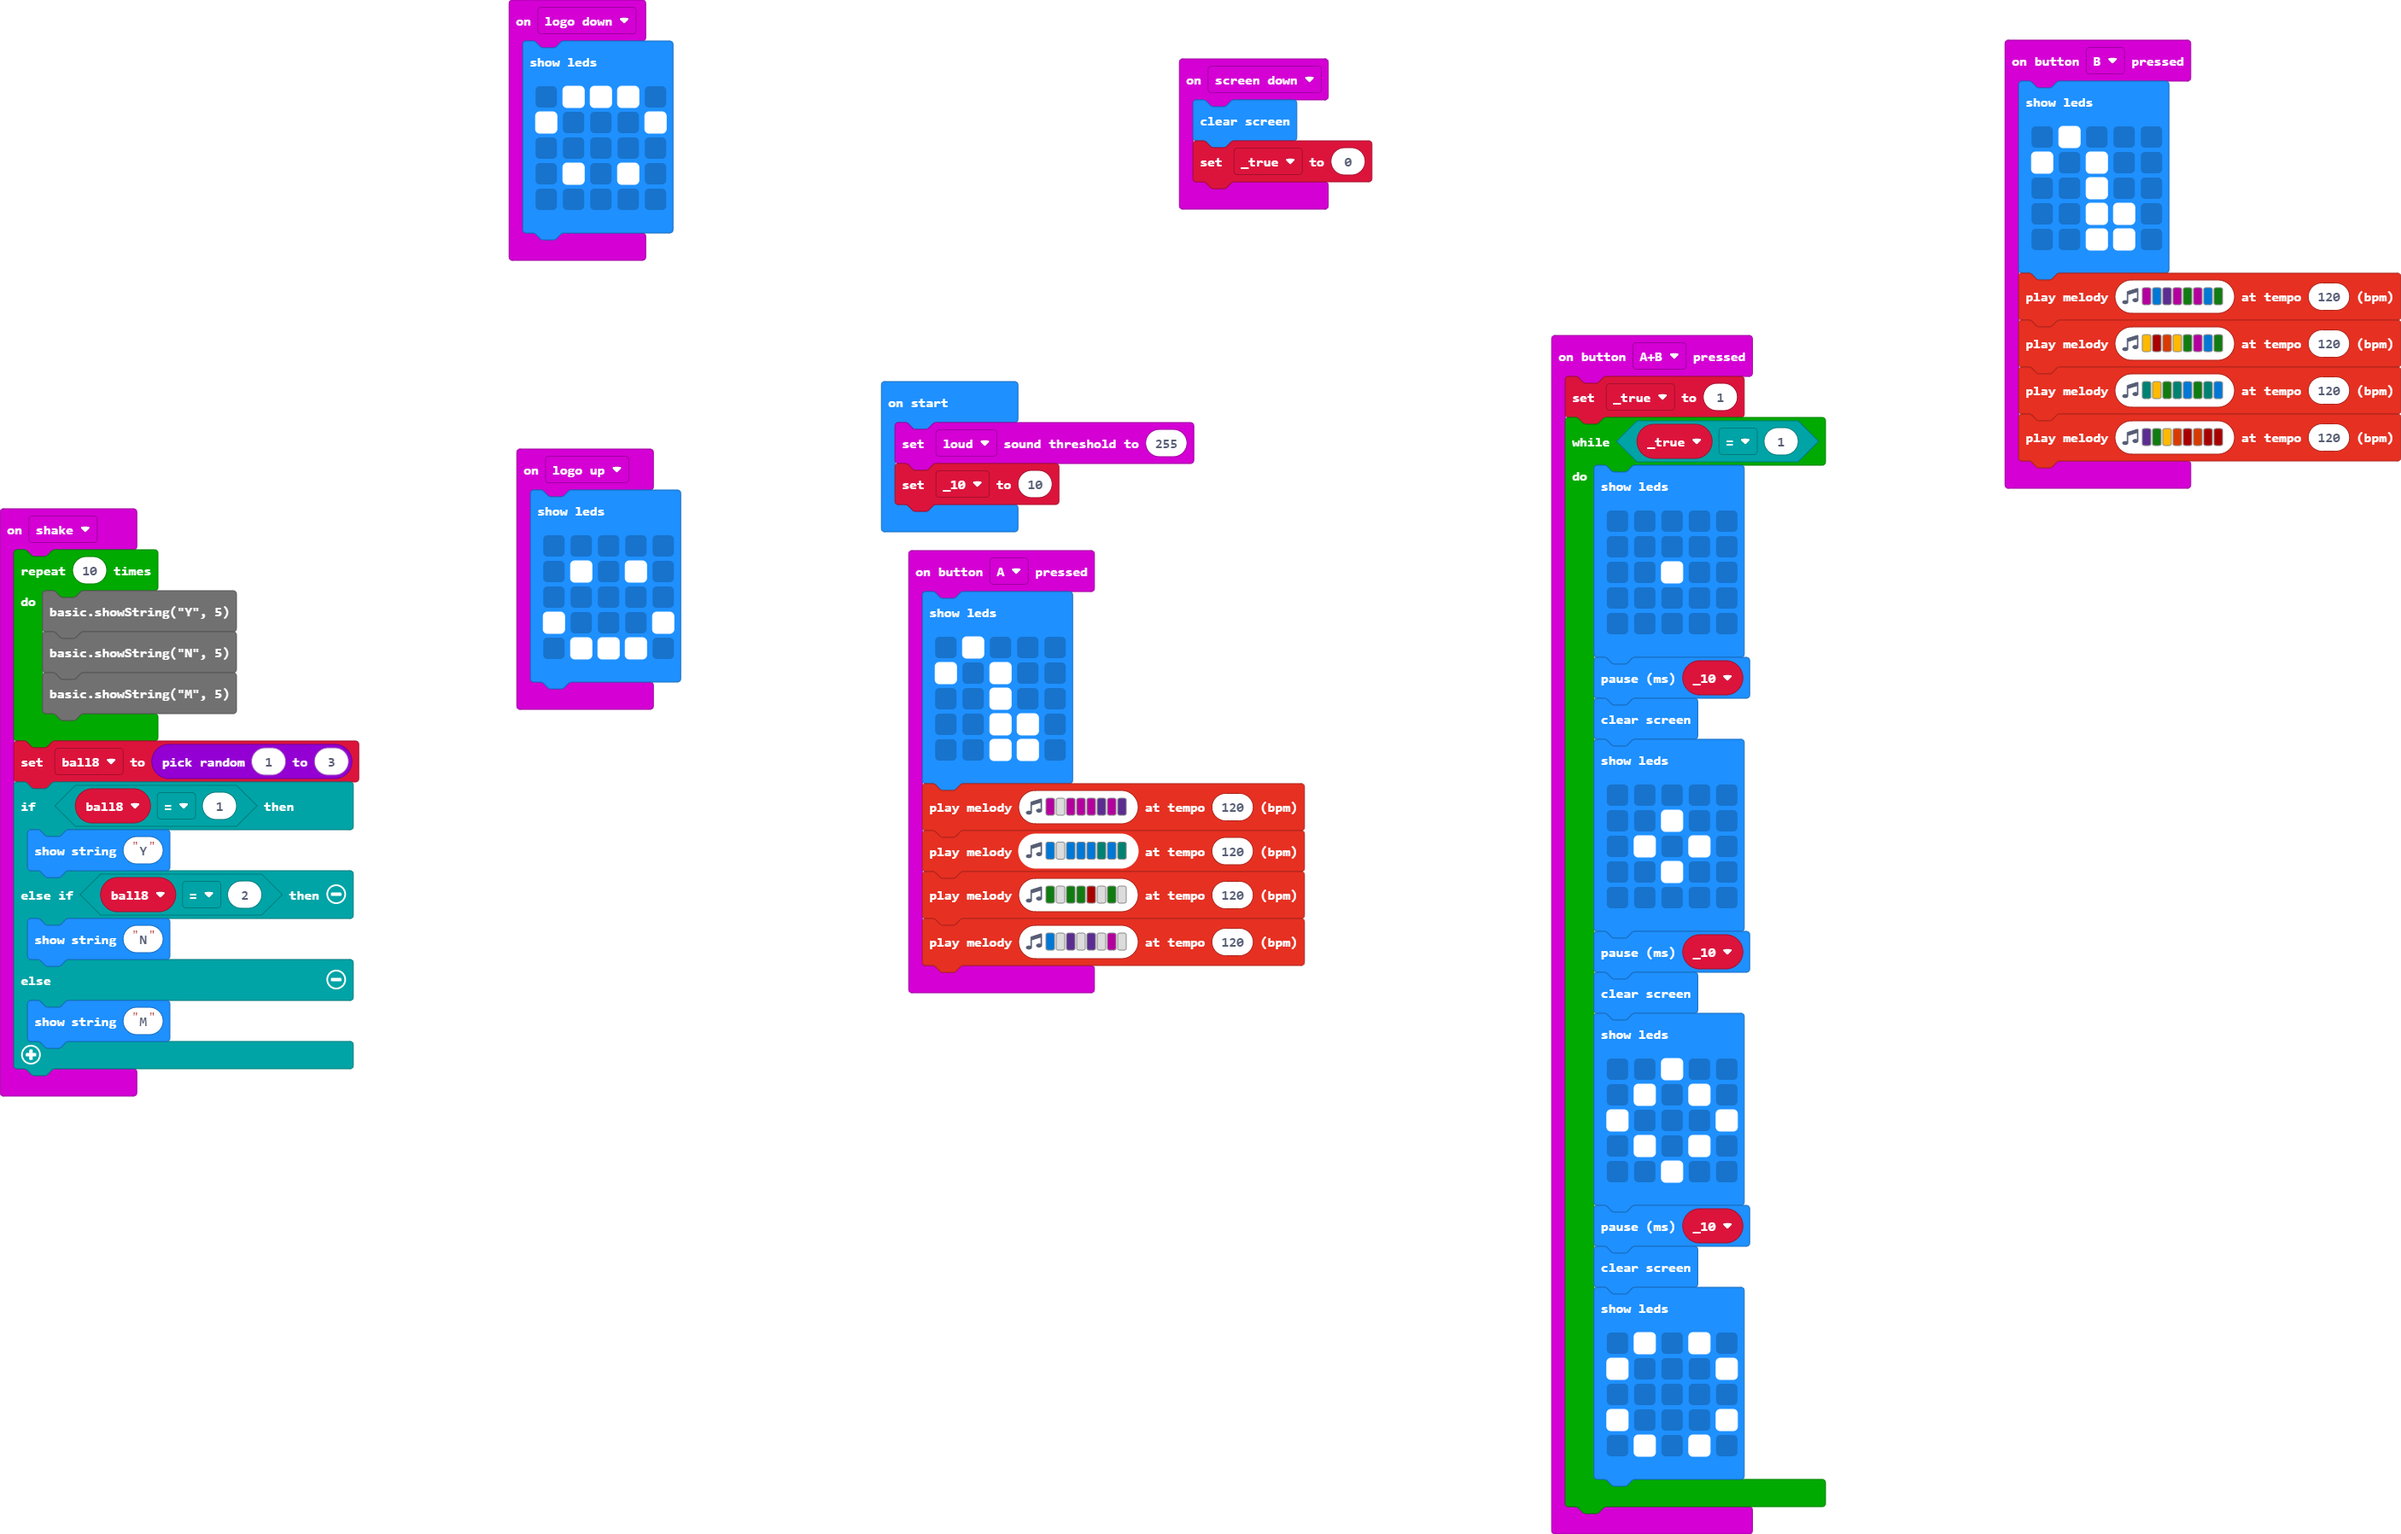
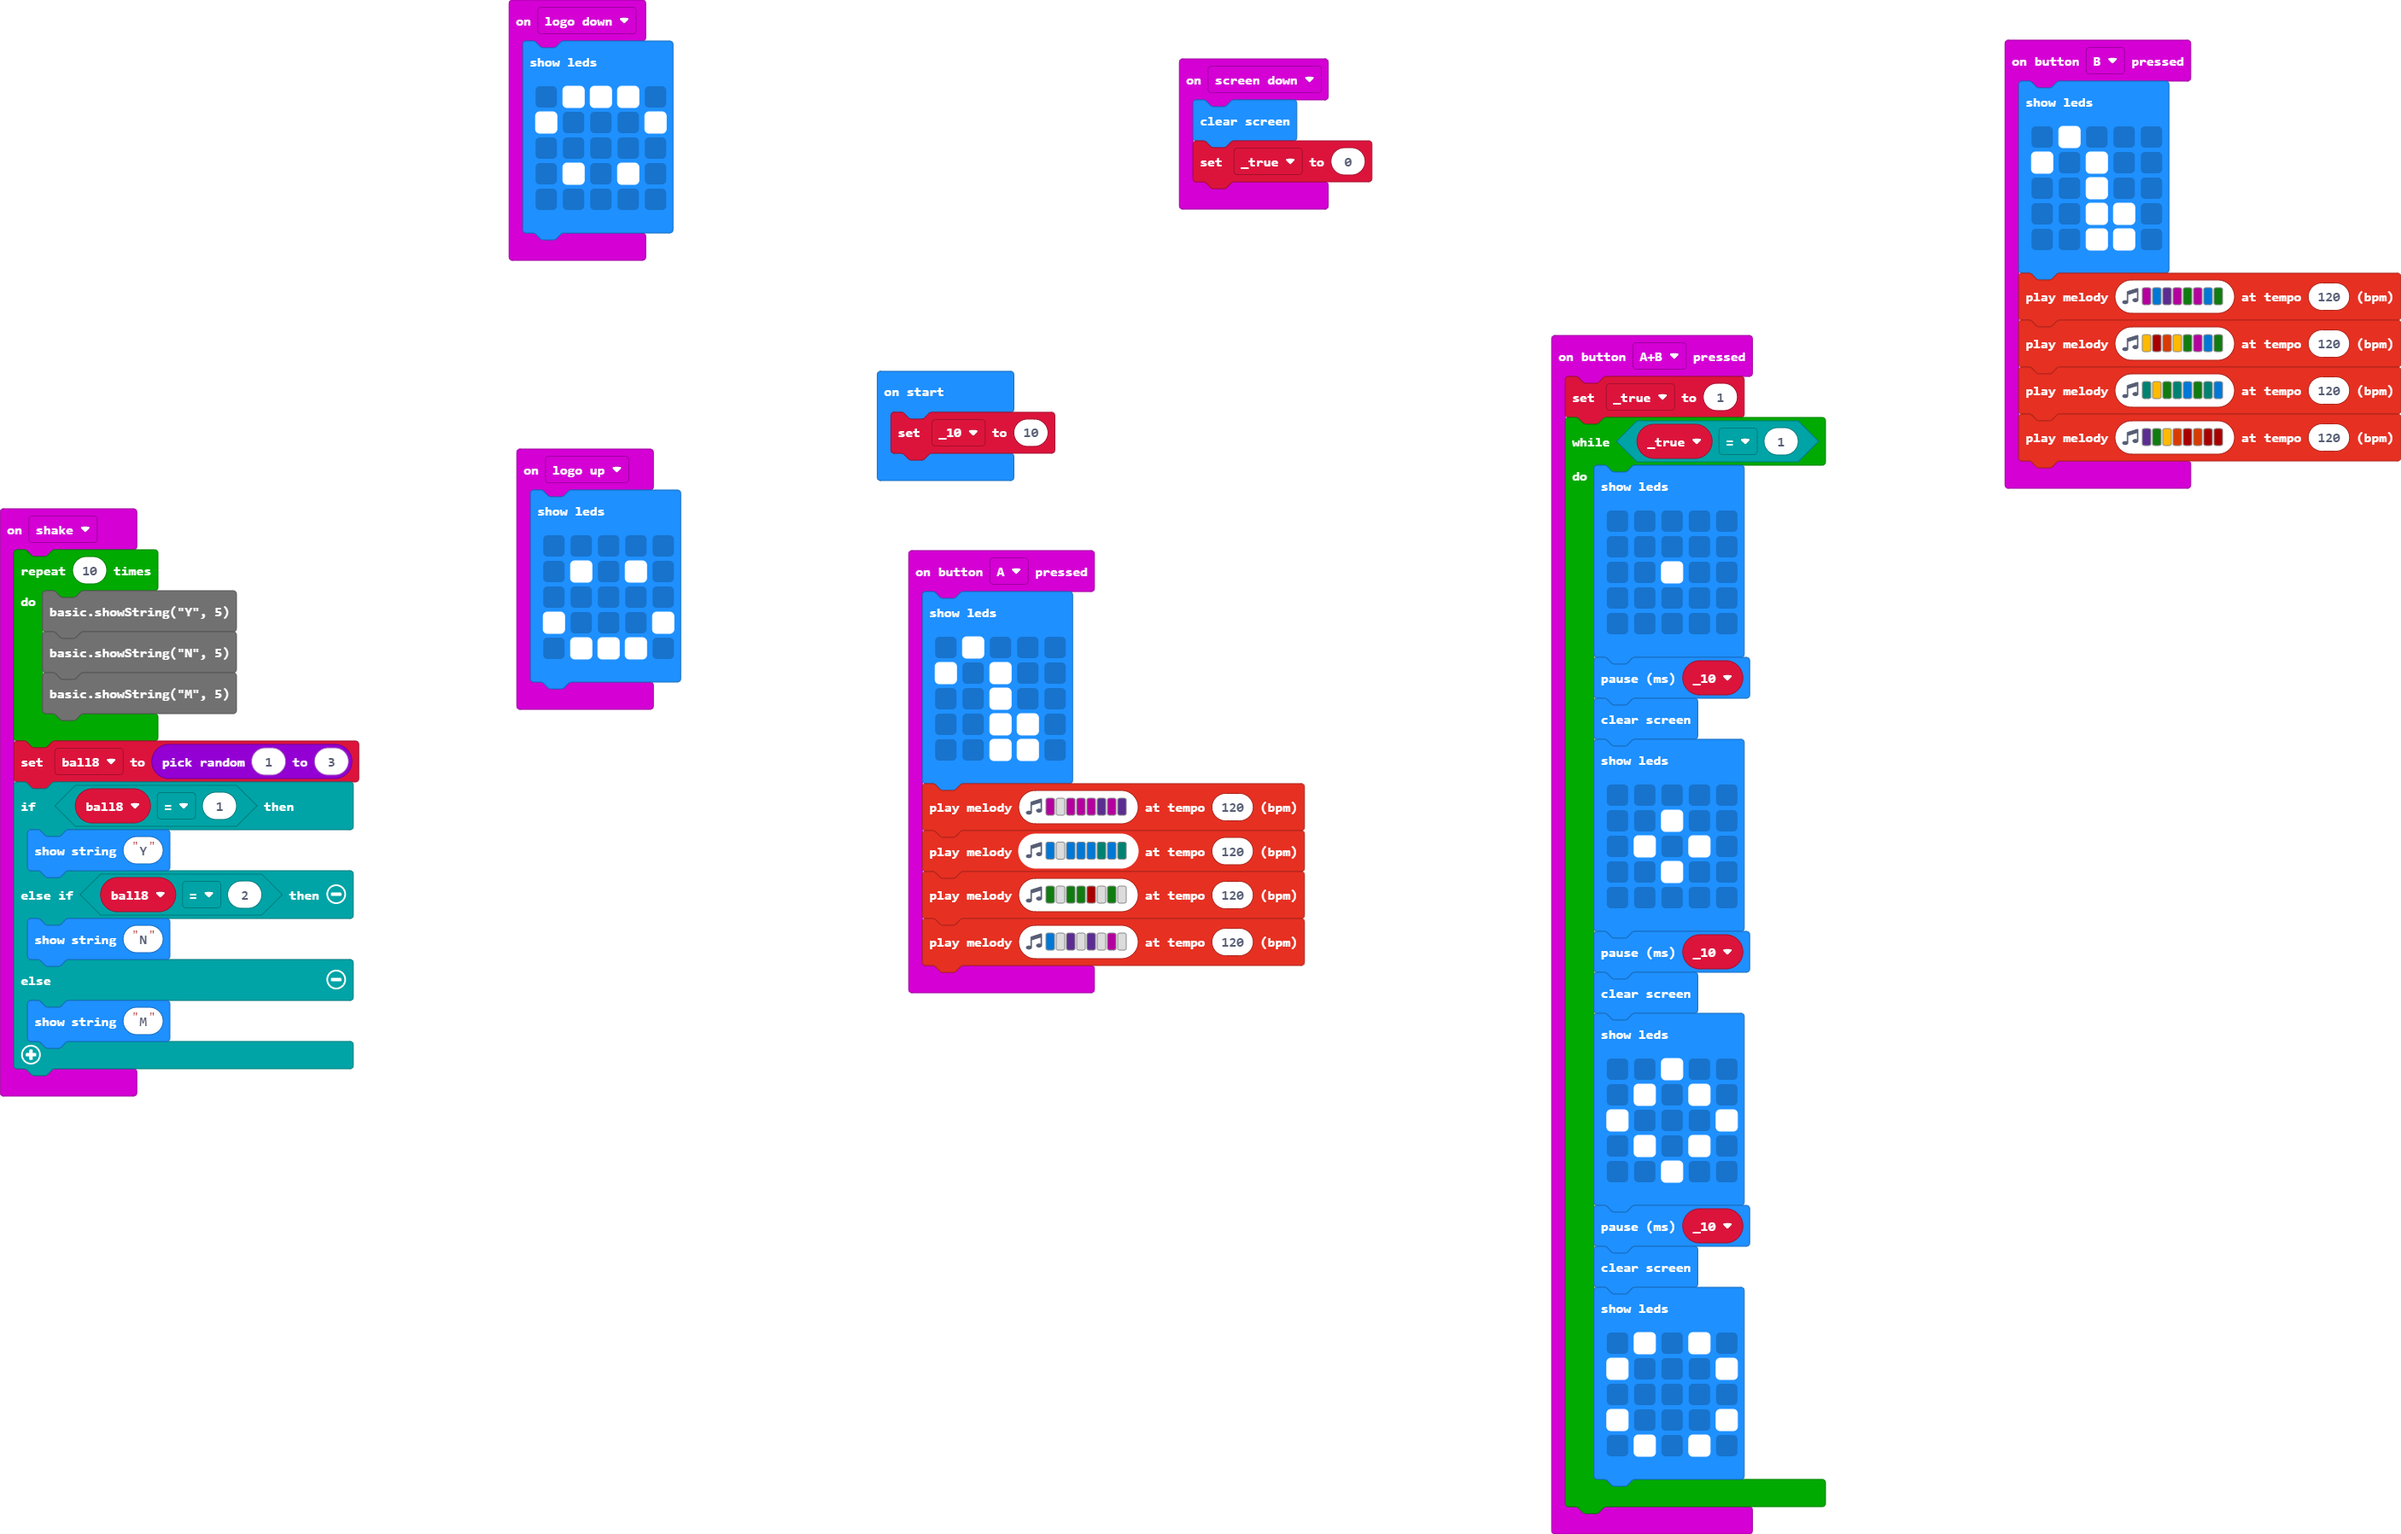
Update main.blocks, main.ts

Changed region(s): [[0.3403, 0.2181, 0.495, 0.374]]

diff --git a/main.ts b/main.ts
@@ -103,5 +103,4 @@ input.onGesture(Gesture.LogoDown, function () {
 let ball8 = 0
 let _true = 0
 let _10 = 0
-input.setSoundThreshold(SoundThreshold.Loud, 255)
 _10 = 10
